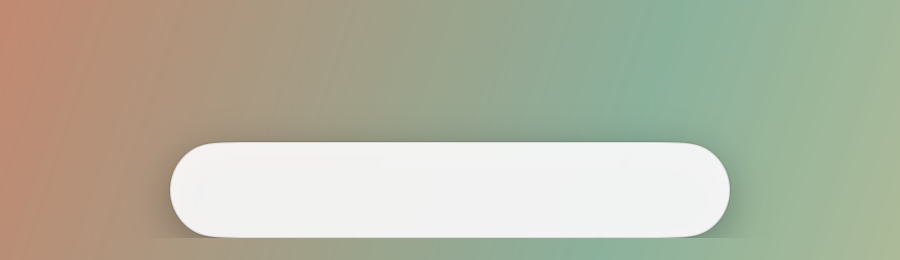
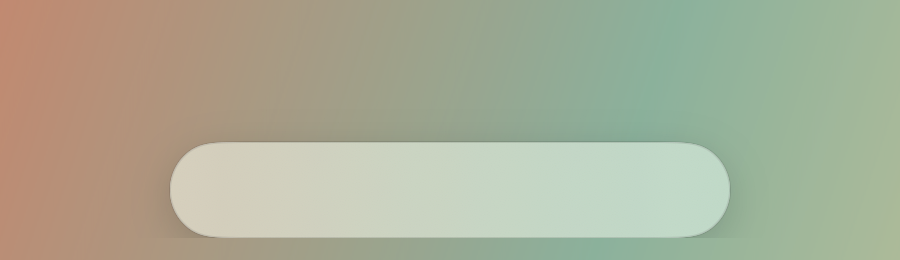
feat: animate the indicator waveform and drop the shadow behind glass
The waveform bars now follow the level with attack and release smoothing,
a center-weighted shape and a slow per-bar drift, drawn in a Canvas from a
TimelineView instead of five static frames. Their resting height equals the
bar width so silence reads as dots with even spacing.

Glass no longer draws the SwiftUI drop shadow and hairline, both showed
through the translucent surface. Light uses the regular material with a
lighter shadow. The collapsed transcript scroll view hides its indicator,
which peeked out at the pill corner on glass.

Changed region(s): [[0.1867, 0.5231, 0.8089, 0.9231]]

diff --git a/TypeWhisper/Views/AudioWaveformView.swift b/TypeWhisper/Views/AudioWaveformView.swift
@@ -1,5 +1,60 @@
 import SwiftUI
 
+/// Bar heights for the audio waveform, in `0...1` per bar.
+///
+/// The bars follow the audio level with a center-weighted shape and a slow
+/// per-bar drift so they keep moving while the level holds. Attack and release
+/// smoothing keeps them from jumping between the 30 Hz level updates. During
+/// microphone setup a single bar bounces from left to right instead.
+struct AudioWaveformBarModel {
+    let barCount: Int
+    private(set) var heights: [CGFloat]
+    private var lastTick: TimeInterval?
+
+    static let attack: Double = 0.04
+    static let release: Double = 0.16
+    static let bounceInterval: Double = 0.06
+    static let bounceHeight: CGFloat = 0.85
+
+    init(barCount: Int) {
+        self.barCount = max(1, barCount)
+        heights = Array(repeating: 0, count: self.barCount)
+    }
+
+    mutating func advance(to now: TimeInterval, level: Float, setup: Bool) -> [CGFloat] {
+        let elapsed = lastTick.map { min(0.1, max(0.001, now - $0)) } ?? 1.0 / 60.0
+        lastTick = now
+        let level = CGFloat(min(1, max(0, level)))
+        let bouncingBar = Int((now / Self.bounceInterval).rounded(.down)) % barCount
+
+        for index in 0..<barCount {
+            let target: CGFloat
+            if setup {
+                target = index == bouncingBar ? Self.bounceHeight : 0
+            } else {
+                target = level * Self.shape(index, count: barCount) * Self.drift(index, at: now)
+            }
+            let timeConstant = target > heights[index] ? Self.attack : Self.release
+            heights[index] += (target - heights[index]) * CGFloat(1 - exp(-elapsed / timeConstant))
+        }
+        return heights
+    }
+
+    /// Bars near the center reach higher than the outer ones.
+    static func shape(_ index: Int, count: Int) -> CGFloat {
+        guard count > 1 else { return 1 }
+        let position = (Double(index) + 0.5) / Double(count)
+        return 0.55 + 0.45 * CGFloat(sin(.pi * position))
+    }
+
+    /// Slow oscillation with a different rate per bar, in `0.6...1`.
+    static func drift(_ index: Int, at now: TimeInterval) -> CGFloat {
+        let rate = 2.2 + 0.65 * Double(index)
+        let phase = Double(index) * 2.1
+        return 0.8 + 0.2 * CGFloat(sin(now * rate + phase))
+    }
+}
+
 /// Multi-bar audio waveform visualization with setup bounce animation.
 struct AudioWaveformView: View {
     let audioLevel: Float
@@ -7,82 +62,48 @@ struct AudioWaveformView: View {
     var compact: Bool = false
 
     private var barCount: Int { compact ? 5 : 8 }
-    private var barWidth: CGFloat { compact ? 3 : 3 }
-    private var barSpacing: CGFloat { compact ? 2 : 2 }
-    private let minHeight: CGFloat = 2
-    private var maxHeight: CGFloat { compact ? 16 : 16 }
+    private let barWidth: CGFloat = 3
+    private let barSpacing: CGFloat = 2
+    private let maxHeight: CGFloat = 16
 
-    @State private var bounceIndex = 0
-    @State private var bounceTimer: Timer?
+    /// Reference holder so the bar model can advance inside the canvas renderer
+    /// without publishing view state on every frame.
+    private final class ModelBox {
+        var model: AudioWaveformBarModel
+        init(barCount: Int) { model = AudioWaveformBarModel(barCount: barCount) }
+    }
+
+    @State private var box: ModelBox
+
+    init(audioLevel: Float, isSetup: Bool, compact: Bool = false) {
+        self.audioLevel = audioLevel
+        self.isSetup = isSetup
+        self.compact = compact
+        _box = State(initialValue: ModelBox(barCount: compact ? 5 : 8))
+    }
+
+    private var totalWidth: CGFloat {
+        CGFloat(barCount) * barWidth + CGFloat(barCount - 1) * barSpacing
+    }
 
     var body: some View {
-        HStack(spacing: barSpacing) {
-            ForEach(0..<barCount, id: \.self) { i in
-                RoundedRectangle(cornerRadius: 1.5)
-                    .fill(.primary)
-                    .frame(width: barWidth, height: barHeight(for: i))
-                    .animation(isSetup ? .easeInOut(duration: 0.3) : nil, value: bounceIndex)
+        TimelineView(.animation(minimumInterval: 1.0 / 60.0)) { context in
+            Canvas { graphics, size in
+                let now = context.date.timeIntervalSinceReferenceDate
+                let heights = box.model.advance(to: now, level: audioLevel, setup: isSetup)
+                for (index, height) in heights.enumerated() {
+                    let barHeight = barWidth + (maxHeight - barWidth) * height
+                    let rect = CGRect(
+                        x: CGFloat(index) * (barWidth + barSpacing),
+                        y: (size.height - barHeight) / 2,
+                        width: barWidth,
+                        height: barHeight
+                    )
+                    graphics.fill(Path(roundedRect: rect, cornerRadius: barWidth / 2), with: .foreground)
+                }
             }
         }
-        .frame(height: maxHeight)
+        .frame(width: totalWidth, height: maxHeight)
         .accessibilityHidden(true)
-        .onChange(of: isSetup) { _, newValue in
-            if newValue {
-                startBounce()
-            } else {
-                stopBounce()
-            }
-        }
-        .onAppear {
-            if isSetup {
-                startBounce()
-            }
-        }
-        .onDisappear {
-            stopBounce()
-        }
-    }
-
-    private func barHeight(for index: Int) -> CGFloat {
-        if isSetup {
-            return bounceHeight(for: index)
-        }
-        return waveformHeight(for: index)
-    }
-
-    // MARK: - Waveform (recording)
-
-    private func waveformHeight(for index: Int) -> CGFloat {
-        let level = audioLevel
-        let phase = Double(index) / Double(barCount) * .pi * 2
-        let waveOffset = sin(phase + .pi * 0.75 + Double(level) * 3) * 0.12 + 0.88
-        var barLevel = CGFloat(level) * CGFloat(waveOffset)
-        // Dampen first bar slightly
-        if index == 0 {
-            barLevel *= 0.85
-        }
-        let height = minHeight + barLevel * (maxHeight - minHeight)
-        return max(minHeight, min(maxHeight, height))
-    }
-
-    // MARK: - Bounce (setup)
-
-    private func bounceHeight(for index: Int) -> CGFloat {
-        index == bounceIndex ? 14 : minHeight
-    }
-
-    private func startBounce() {
-        bounceIndex = 0
-        bounceTimer?.invalidate()
-        bounceTimer = Timer.scheduledTimer(withTimeInterval: 0.06, repeats: true) { _ in
-            Task { @MainActor in
-                bounceIndex = (bounceIndex + 1) % barCount
-            }
-        }
-    }
-
-    private func stopBounce() {
-        bounceTimer?.invalidate()
-        bounceTimer = nil
     }
 }

diff --git a/TypeWhisperTests/AudioWaveformBarModelTests.swift b/TypeWhisperTests/AudioWaveformBarModelTests.swift
@@ -1,0 +1,84 @@
+import XCTest
+@testable import TypeWhisper
+
+final class AudioWaveformBarModelTests: XCTestCase {
+    private let frame: TimeInterval = 1.0 / 60.0
+
+    private func run(_ model: inout AudioWaveformBarModel, from start: TimeInterval, seconds: TimeInterval, level: Float, setup: Bool = false) -> [CGFloat] {
+        var heights: [CGFloat] = []
+        var now = start
+        while now < start + seconds {
+            heights = model.advance(to: now, level: level, setup: setup)
+            now += frame
+        }
+        return heights
+    }
+
+    func testBarsStayFlatWithoutSignal() {
+        var model = AudioWaveformBarModel(barCount: 5)
+
+        let heights = run(&model, from: 10, seconds: 1, level: 0)
+
+        XCTAssertEqual(heights.count, 5)
+        XCTAssertTrue(heights.allSatisfy { $0 == 0 })
+    }
+
+    func testBarsRiseWithSignalAndStayInRange() {
+        var model = AudioWaveformBarModel(barCount: 5)
+
+        let heights = run(&model, from: 10, seconds: 1, level: 1)
+
+        XCTAssertTrue(heights.allSatisfy { $0 > 0.3 && $0 <= 1 }, "\(heights)")
+    }
+
+    func testCenterBarsReachHigherThanOuterBars() {
+        var model = AudioWaveformBarModel(barCount: 5)
+        var sums = Array(repeating: CGFloat(0), count: 5)
+        var now: TimeInterval = 10
+
+        for _ in 0..<600 {
+            let heights = model.advance(to: now, level: 1, setup: false)
+            for (index, height) in heights.enumerated() { sums[index] += height }
+            now += frame
+        }
+
+        XCTAssertGreaterThan(sums[2], sums[0])
+        XCTAssertGreaterThan(sums[2], sums[4])
+    }
+
+    func testReleaseIsSlowerThanAttack() {
+        var model = AudioWaveformBarModel(barCount: 5)
+        let raised = run(&model, from: 10, seconds: 1, level: 1)
+
+        let dropped = model.advance(to: 11, level: 0, setup: false)
+
+        for (before, after) in zip(raised, dropped) {
+            XCTAssertGreaterThan(after, before * 0.8)
+            XCTAssertLessThan(after, before)
+        }
+    }
+
+    func testLevelIsClamped() {
+        var model = AudioWaveformBarModel(barCount: 3)
+
+        let heights = run(&model, from: 10, seconds: 1, level: 4)
+
+        XCTAssertTrue(heights.allSatisfy { $0 <= 1 })
+    }
+
+    func testSetupBounceMovesAcrossBars() {
+        var model = AudioWaveformBarModel(barCount: 5)
+        var tallest = Set<Int>()
+        var now: TimeInterval = 10
+
+        for _ in 0..<60 {
+            let heights = model.advance(to: now, level: 0, setup: true)
+            if let index = heights.indices.max(by: { heights[$0] < heights[$1] }) {
+                tallest.insert(index)
+            }
+            now += frame
+        }
+
+        XCTAssertEqual(tallest, Set(0..<5))
+    }
+}

diff --git a/TypeWhisper/Views/SharedIndicatorComponents.swift b/TypeWhisper/Views/SharedIndicatorComponents.swift
@@ -28,14 +28,28 @@ extension IndicatorTheme {
         }
     }
 
-    var strokeColor: Color {
+    /// Hairline around the surface. Glass draws its own rim highlight.
+    var strokeColor: Color? {
         switch self {
         case .classic:
             .white.opacity(0.15)
         case .light:
             .black.opacity(0.1)
         case .glass:
-            Color.primary.opacity(0.08)
+            nil
+        }
+    }
+
+    /// Multiplier for the drop shadow the indicator views draw. Glass ships its
+    /// own shadow, and a SwiftUI shadow would show through the translucent surface.
+    var shadowOpacityScale: Double {
+        switch self {
+        case .classic:
+            1
+        case .light:
+            0.5
+        case .glass:
+            0
         }
     }
 }
@@ -51,10 +65,11 @@ struct IndicatorSurfaceModifier<S: Shape>: ViewModifier {
             // The hosting panel itself is rectangular. Clip all rendered content,
             // especially the feedback progress bar, to the visible surface.
             .clipShape(shape)
-            .overlay(
-                shape
-                    .stroke(strokeColor ?? theme.strokeColor, lineWidth: 1)
-            )
+            .overlay {
+                if let stroke = strokeColor ?? theme.strokeColor {
+                    shape.stroke(stroke, lineWidth: 1)
+                }
+            }
     }
 
     @ViewBuilder
@@ -63,7 +78,7 @@ struct IndicatorSurfaceModifier<S: Shape>: ViewModifier {
         case .classic:
             content.background(.black.opacity(0.85), in: shape)
         case .light:
-            content.background(Color(white: 0.98).opacity(0.94), in: shape)
+            content.background(.regularMaterial, in: shape)
         case .glass:
             if #available(macOS 26.0, *) {
                 content.glassEffect(.clear, in: shape)
@@ -329,7 +344,7 @@ struct IndicatorExpandableText: View {
 
     var body: some View {
         ScrollViewReader { proxy in
-            ScrollView(.vertical, showsIndicators: true) {
+            ScrollView(.vertical, showsIndicators: false) {
                 Text(text)
                     .font(.system(size: fontSize))
                     .foregroundStyle(Color.primary.opacity(0.85))

diff --git a/TypeWhisper/Views/OverlayIndicatorView.swift b/TypeWhisper/Views/OverlayIndicatorView.swift
@@ -149,7 +149,7 @@ struct OverlayIndicatorView: View {
             }
             .frame(width: currentWidth)
         }
-        .shadow(color: .black.opacity(0.3), radius: 10, y: 5)
+        .shadow(color: .black.opacity(0.3 * viewModel.indicatorTheme.shadowOpacityScale), radius: 10, y: 5)
         .frame(maxWidth: .infinity, maxHeight: .infinity, alignment: isTop ? .top : .bottom)
         .preferredColorScheme(viewModel.indicatorTheme.preferredColorScheme)
         .onHover { hovered in

diff --git a/TypeWhisper/Views/MinimalIndicatorView.swift b/TypeWhisper/Views/MinimalIndicatorView.swift
@@ -109,7 +109,7 @@ struct MinimalIndicatorView: View {
     }
 
     private var shadowColor: Color {
-        errorMessage == nil ? .black.opacity(0.22) : .red.opacity(0.18)
+        errorMessage == nil ? .black.opacity(0.22 * viewModel.indicatorTheme.shadowOpacityScale) : .red.opacity(0.18)
     }
 
     var body: some View {

diff --git a/.github/pr-assets/1381/README.md b/.github/pr-assets/1381/README.md
@@ -1,11 +1,11 @@
-# PR #1381: indicator themes
+# PR #1381: indicator themes and waveform
 
-Real overlay captures of the dev app built from this branch on 2026-09-25, macOS 26, dark system appearance, in front of a synthetic gradient image opened in Preview. The app icon in the pill is Preview's. No personal data is shown; the recording captures came from `POST /v1/dictation/start` on the local API with the app killed before insertion, so the transcript text is Whisper output on ambient noise.
+Real overlay captures of the dev app built from this branch on 2026-09-25, macOS 26, dark system appearance, in front of a synthetic gradient image opened in Preview. The app icon in the pill is Preview's. Audio came from `say` routed through the BlackHole loopback device, so the transcript text is the spoken test sentence, and the app was killed before anything was inserted. Whisper adds a hallucinated lead-in on the first partial in some runs.
 
-| Theme | Idle | Recording |
-| --- | --- | --- |
-| Classic | ![Classic idle](classic-idle.png) | ![Classic recording](classic-recording.png) |
-| Glass | ![Glass idle](glass-idle.png) | ![Glass recording](glass-recording.png) |
-| Light | ![Light idle](light-idle.png) | ![Light recording](light-recording.png) |
+| Theme | Idle | Speaking | Transcript |
+| --- | --- | --- | --- |
+| Classic | ![Classic idle](classic-idle.png) | ![Classic speaking](classic-speaking.png) | ![Classic transcript](classic-transcript.png) |
+| Glass | ![Glass idle](glass-idle.png) | ![Glass speaking](glass-speaking.png) | ![Glass transcript](glass-transcript.png) |
+| Light | ![Light idle](light-idle.png) | ![Light speaking](light-speaking.png) | ![Light transcript](light-transcript.png) |
 
 Capture: `screencapture -x -R 356,520,800,462`, then cropped to the pill region with ffmpeg. Pixels were not retouched.
